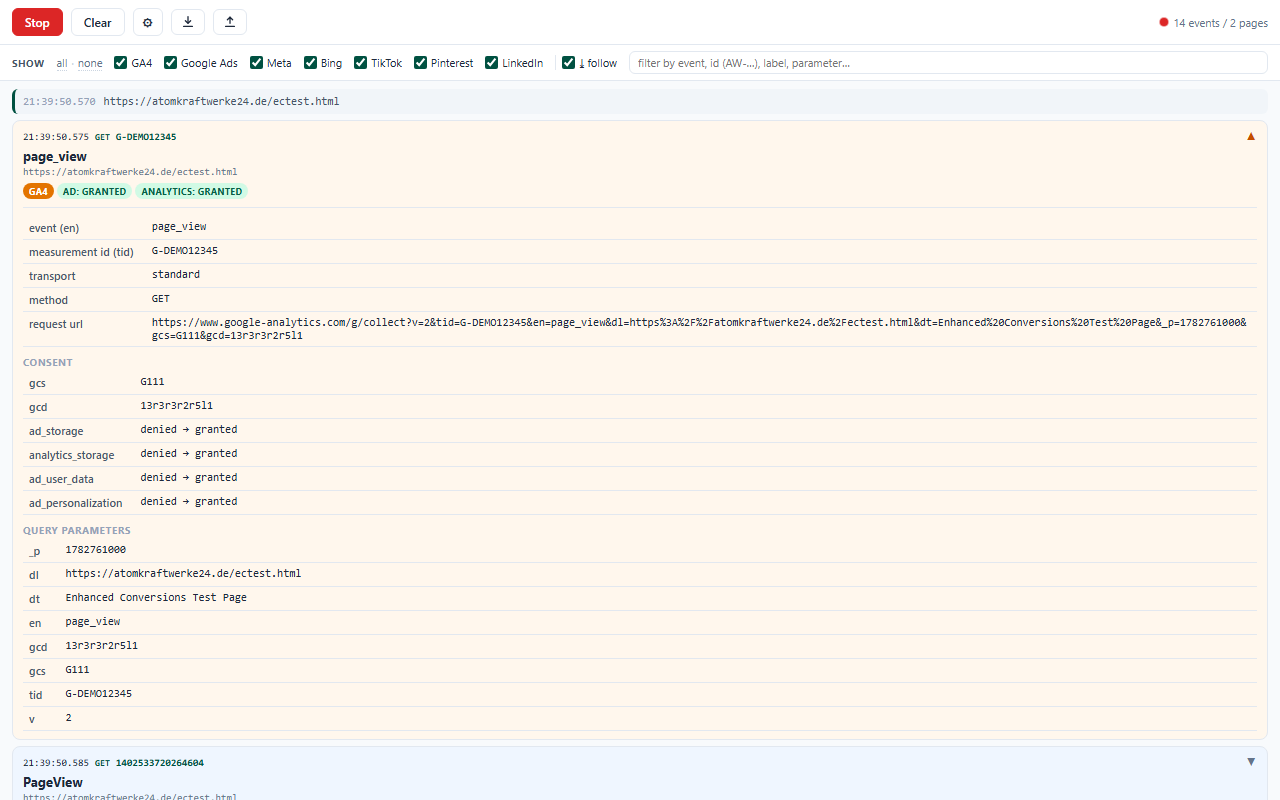
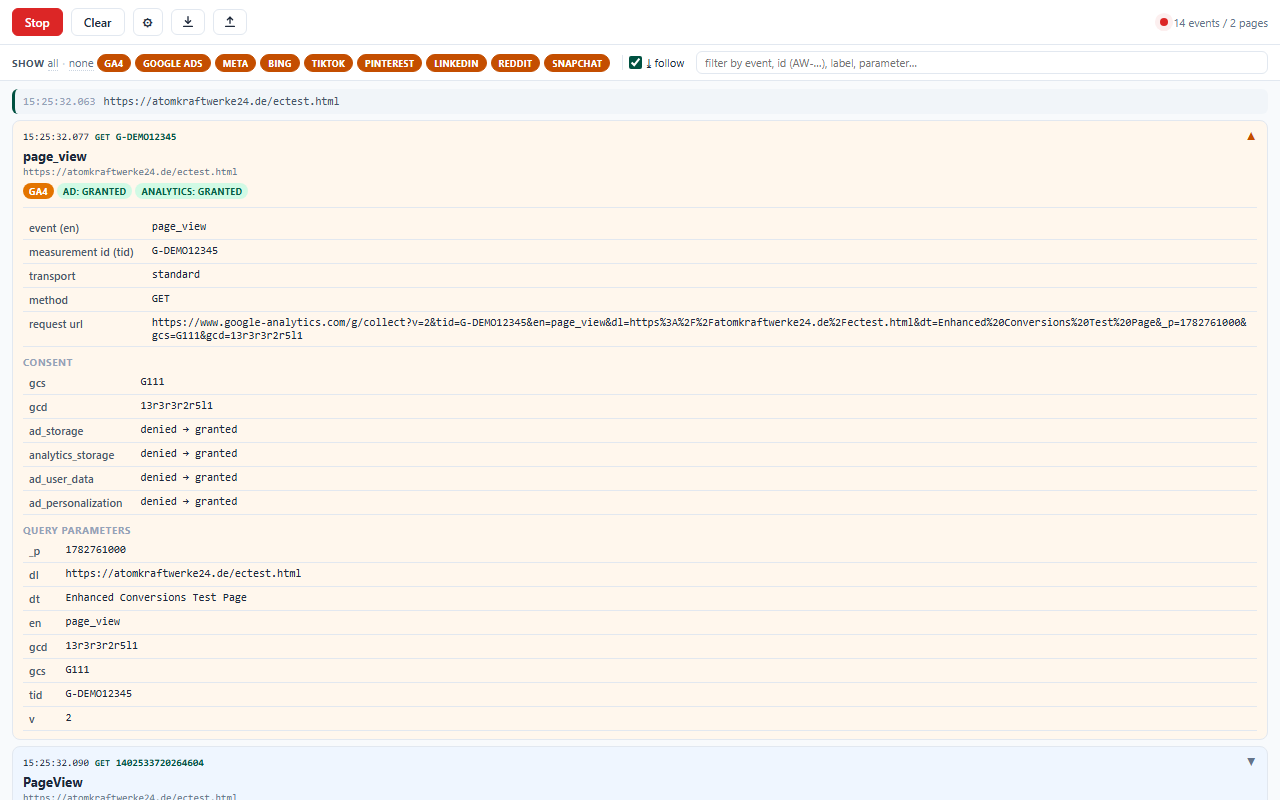
feat(panel): pill-based service filter; release v0.7.1
Replace the fixed row of nine display-filter checkboxes with compact toggle
pills, built only for services that are enabled for capture (or already seen
in the current/imported capture). A service you never record no longer gets a
filter control — less clutter, same behaviour. Mirrors the ec-data-validator
filter bar. Regenerated Web Store screenshots.

Changed region(s): [[0.0312, 0.0625, 0.7188, 0.0938], [0.0312, 0.9375, 0.0625, 0.9688], [0.0312, 0.1562, 0.0625, 0.1875]]

diff --git a/panel.js b/panel.js
@@ -41,8 +41,14 @@ const state = {
   blocks: [],                                             // [{ navUrl, navTime, events:[], _el, _eventsEl }]
   record: { ga4: true, meta: true, uet: true, tiktok: true, pinterest: true, googleads: true, linkedin: true, reddit: true, snapchat: true },           // capture switches (the "in" side)
   filter: { ga4: true, meta: true, uet: true, tiktok: true, pinterest: true, googleads: true, linkedin: true, reddit: true, snapchat: true, text: '' }, // display filter (the "out" side)
+  seen: new Set(),                                         // providers that actually appeared in the current capture (drives filter pills for since-disabled/imported services)
   autoScroll: true,                                       // "follow": keep the newest events in view while recording
 };
+
+// Filter pills are built from this order; only enabled or already-seen services
+// get a pill, so the bar carries nothing for a service you never record.
+const PROVIDER_ORDER = ['ga4', 'googleads', 'meta', 'uet', 'tiktok', 'pinterest', 'linkedin', 'reddit', 'snapchat'];
+const PROVIDER_LABEL = { ga4: 'GA4', googleads: 'Google Ads', meta: 'Meta', uet: 'Bing', tiktok: 'TikTok', pinterest: 'Pinterest', linkedin: 'LinkedIn', reddit: 'Reddit', snapchat: 'Snapchat' };
 
 // --- helpers ---------------------------------------------------------------
 
@@ -829,6 +835,7 @@ function appendEventDom(block, r) {
   });
   block._eventsEl.appendChild(card);
   r._el = card;
+  if (r.provider && !state.seen.has(r.provider)) { state.seen.add(r.provider); renderFilterBar(); }   // ensure a pill exists for this service
   applyCardVisibility(r);
 }
 
@@ -955,7 +962,9 @@ recordBtn.addEventListener('click', () => setRecording(!state.recording));
 
 clearBtn.addEventListener('click', () => {
   state.blocks = [];
+  state.seen.clear();
   blocksEl.innerHTML = '';
+  renderFilterBar();                                       // drop pills for services that were only present via cleared cards
   renderStatus();
 });
 
@@ -1012,6 +1021,7 @@ exportBtn.addEventListener('click', () => {
 function loadCapture(data) {
   state.recording = false;
   state.blocks = [];
+  state.seen.clear();
   blocksEl.innerHTML = '';
   for (const b of data.blocks) {
     const block = { navUrl: b.navUrl, navTime: b.navTime, events: [] };
@@ -1022,6 +1032,7 @@ function loadCapture(data) {
       appendEventDom(block, r);
     }
   }
+  renderFilterBar();                                       // reflect the imported services' pills (also clears stale ones)
   renderStatus();
 }
 
@@ -1054,26 +1065,54 @@ settingsBtn.addEventListener('click', () => {
   settingsBtn.classList.toggle('active', !settingsEl.hidden);
 });
 for (const cb of document.querySelectorAll('input[data-rec]')) {
-  cb.addEventListener('change', () => { state.record[cb.dataset.rec] = cb.checked; saveSettings(); });
+  cb.addEventListener('change', () => { state.record[cb.dataset.rec] = cb.checked; renderFilterBar(); saveSettings(); });
 }
 
 // Display filter ("out"): independent of capture — hides cards without dropping
-// the captured data, so unchecking and re-checking brings them straight back.
-for (const cb of document.querySelectorAll('input[data-flt]')) {
-  cb.addEventListener('change', () => { state.filter[cb.dataset.flt] = cb.checked; applyFilter(); saveSettings(); });
+// the captured data, so toggling a pill off and on brings them straight back.
+// The pills are built dynamically for the services that are enabled for capture
+// PLUS any already recorded in the current session (so imported captures and
+// since-disabled services stay filterable). A service you never record gets no
+// pill at all.
+const fltGroup = document.getElementById('fltGroup');
+const fltPills = document.getElementById('fltPills');
+
+// Which services deserve a filter pill right now: enabled for capture, or already
+// seen in the current blocks (import / recorded-then-disabled).
+function filterProviders() {
+  return PROVIDER_ORDER.filter(p => state.record[p] || state.seen.has(p));
 }
+
+function renderFilterBar() {
+  const providers = filterProviders();
+  fltGroup.hidden = providers.length === 0;
+  fltPills.innerHTML = providers.map(p => {
+    const active = state.filter[p] !== false;
+    return `<span class="flt-pill ${active ? 'active' : ''}" data-flt="${escapeHtml(p)}" role="button" tabindex="0" aria-pressed="${active}">${escapeHtml(PROVIDER_LABEL[p] || p)}</span>`;
+  }).join('');
+  for (const pill of fltPills.querySelectorAll('.flt-pill')) {
+    const toggle = () => {
+      const p = pill.dataset.flt;
+      state.filter[p] = state.filter[p] === false;   // flip
+      renderFilterBar();
+      applyFilter();
+      saveSettings();
+    };
+    pill.addEventListener('click', toggle);
+    pill.addEventListener('keydown', (e) => { if (e.key === 'Enter' || e.key === ' ') { e.preventDefault(); toggle(); } });
+  }
+}
+
 document.getElementById('filterText').addEventListener('input', (e) => {
   state.filter.text = e.target.value;
   applyFilter();
 });
 
-// Bulk "all / none" for the Show row — one gesture instead of ticking each
-// provider as the list grows. Drives the same state + checkboxes as a manual toggle.
+// Bulk "all / none" for the Show row — one gesture instead of toggling each
+// provider as the list grows. Only touches the services that currently have a pill.
 function setAllFilters(on) {
-  for (const cb of document.querySelectorAll('input[data-flt]')) {
-    cb.checked = on;
-    state.filter[cb.dataset.flt] = on;
-  }
+  for (const p of filterProviders()) state.filter[p] = on;
+  renderFilterBar();
   applyFilter();
   saveSettings();
 }
@@ -1109,16 +1148,18 @@ function saveSettings() {
 function loadSettings() {
   chrome.storage.local.get(SETTINGS_KEY, (data) => {
     const saved = data && data[SETTINGS_KEY];
-    if (!saved) return;
-    if (saved.record) Object.assign(state.record, saved.record);
-    if (saved.filter) Object.assign(state.filter, saved.filter);
-    if (typeof saved.autoScroll === 'boolean') state.autoScroll = saved.autoScroll;
-    for (const cb of document.querySelectorAll('input[data-rec]')) cb.checked = !!state.record[cb.dataset.rec];
-    for (const cb of document.querySelectorAll('input[data-flt]')) cb.checked = !!state.filter[cb.dataset.flt];
-    autoScrollCb.checked = state.autoScroll;
+    if (saved) {
+      if (saved.record) Object.assign(state.record, saved.record);
+      if (saved.filter) Object.assign(state.filter, saved.filter);
+      if (typeof saved.autoScroll === 'boolean') state.autoScroll = saved.autoScroll;
+      for (const cb of document.querySelectorAll('input[data-rec]')) cb.checked = !!state.record[cb.dataset.rec];
+      autoScrollCb.checked = state.autoScroll;
+    }
+    renderFilterBar();                                     // pills reflect the persisted record/filter state
     applyFilter();
   });
 }
 
+renderFilterBar();                                         // initial pills before storage resolves (default: all enabled)
 loadSettings();
 renderStatus();

diff --git a/panel.html b/panel.html
@@ -90,8 +90,15 @@
     .ctl-links { display: inline-flex; gap: 4px; align-items: center; color: var(--text-fainter); }
     .ctl-links a { color: var(--text-muted); cursor: pointer; text-decoration: none; border-bottom: 1px dotted var(--text-fainter); }
     .ctl-links a:hover { color: var(--primary); border-bottom-color: var(--primary); }
-    /* "follow" (auto-scroll) toggle sits apart from the provider checkboxes */
+    /* "follow" (auto-scroll) toggle sits apart from the provider filter pills */
     .ctl-follow { color: var(--text-muted); white-space: nowrap; padding-left: 6px; border-left: 1px solid var(--border); }
+    /* Filter pills ("out" side): compact toggles built only for enabled/seen
+       services, so the bar carries no chip for a service you never record. */
+    #fltPills { display: inline-flex; gap: 4px; flex-wrap: wrap; align-items: center; }
+    .flt-pill { font-size: 9px; font-weight: 700; text-transform: uppercase; letter-spacing: 0.3px; padding: 2px 7px; border-radius: 10px; border: 1px solid var(--border); background: var(--surface-alt); color: var(--text-muted); cursor: pointer; user-select: none; }
+    .flt-pill.active { background: var(--primary); color: #fff; border-color: var(--primary); }
+    .flt-pill:hover { border-color: var(--primary); }
+    .flt-group[hidden] { display: none; }
     .settings { background: var(--surface-alt); }
     #filterText { flex: 1; min-width: 100px; font-size: 11px; padding: 3px 8px; border: 1px solid var(--border); border-radius: 6px; background: var(--surface); color: var(--text); font-family: inherit; }
     #filterText:focus { outline: none; border-color: var(--primary); }
@@ -200,17 +207,11 @@
       <span class="ctl-hint">which services are captured (applies to new hits)</span>
     </div>
     <div class="ctl-row filterbar">
-      <span class="ctl-label">Show</span>
-      <span class="ctl-links"><a id="fltAll" role="button" tabindex="0">all</a> · <a id="fltNone" role="button" tabindex="0">none</a></span>
-      <label><input type="checkbox" data-flt="ga4" checked> GA4</label>
-      <label><input type="checkbox" data-flt="googleads" checked> Google Ads</label>
-      <label><input type="checkbox" data-flt="meta" checked> Meta</label>
-      <label><input type="checkbox" data-flt="uet" checked> Bing</label>
-      <label><input type="checkbox" data-flt="tiktok" checked> TikTok</label>
-      <label><input type="checkbox" data-flt="pinterest" checked> Pinterest</label>
-      <label><input type="checkbox" data-flt="linkedin" checked> LinkedIn</label>
-      <label><input type="checkbox" data-flt="reddit" checked> Reddit</label>
-      <label><input type="checkbox" data-flt="snapchat" checked> Snapchat</label>
+      <span id="fltGroup" class="flt-group">
+        <span class="ctl-label">Show</span>
+        <span class="ctl-links"><a id="fltAll" role="button" tabindex="0">all</a> · <a id="fltNone" role="button" tabindex="0">none</a></span>
+        <span id="fltPills"></span>
+      </span>
       <label class="ctl-follow" title="Keep the newest events in view while recording"><input type="checkbox" id="autoScroll" checked> ⤓ follow</label>
       <input type="search" id="filterText" placeholder="filter by event, id (AW-…), label, parameter…" autocomplete="off">
     </div>
